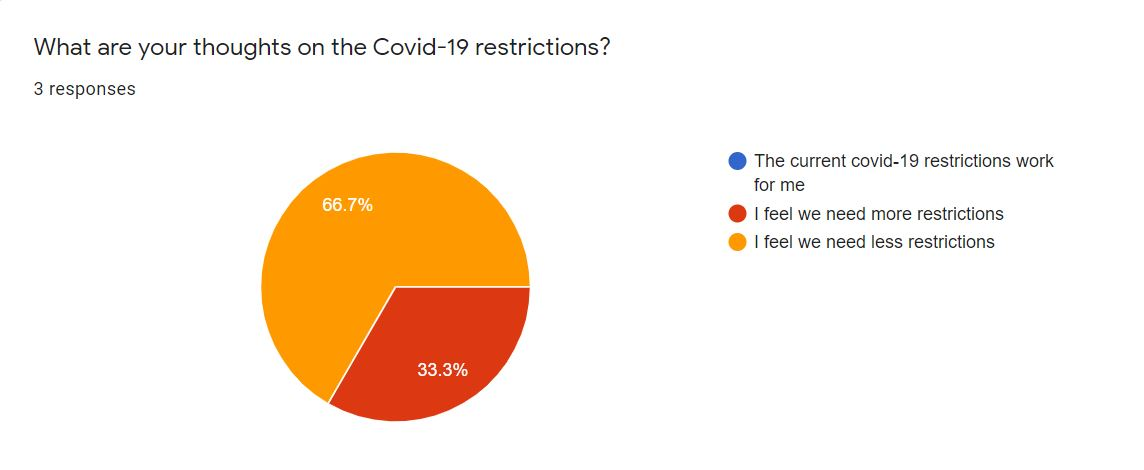
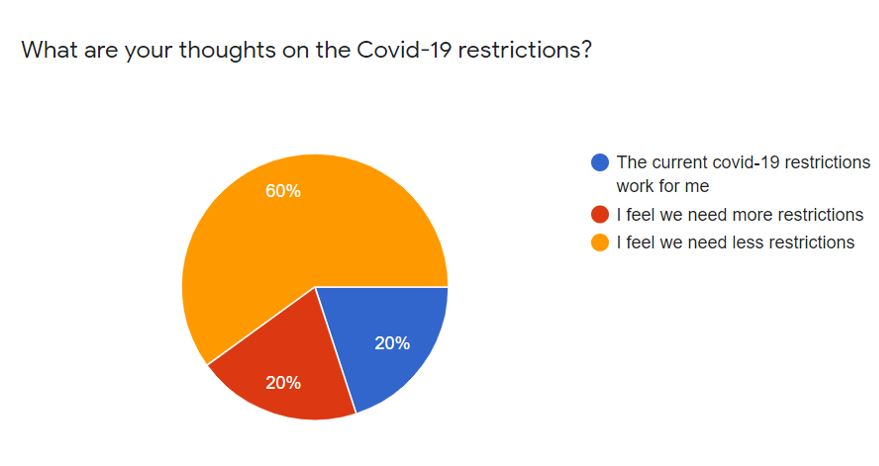
RTBS2 R3

diff --git a/_read-to-be-sure/2g-rtbs02-perspective5.md b/_read-to-be-sure/2g-rtbs02-perspective5.md
@@ -36,6 +36,10 @@ Most countries have accepted that eradicating COVID-19 is [impossible](https://w
 </div>	
 
 
+Take our [**poll**](https://forms.gle/zkBsk2izarbksiQB6) now, and share your views on this topic!  Here are the [current poll results](https://docs.google.com/forms/d/e/1FAIpQLSf_lZzfeQtbTtuAwcgXkhcuNBXjyWCb7ejOpZwelRO4lYboPg/viewanalytics): 
+
+![](../images/rtbs2-poll1-2feb2022.JPG)
+
 
 
 
